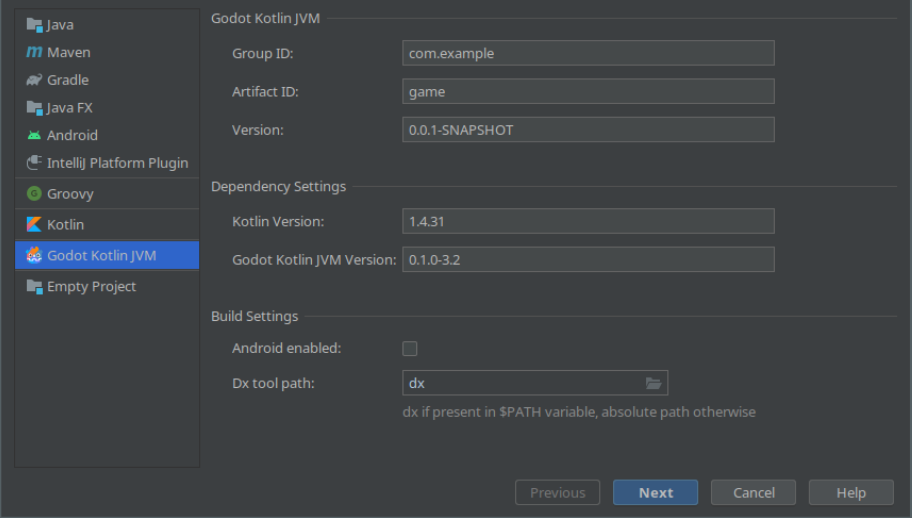
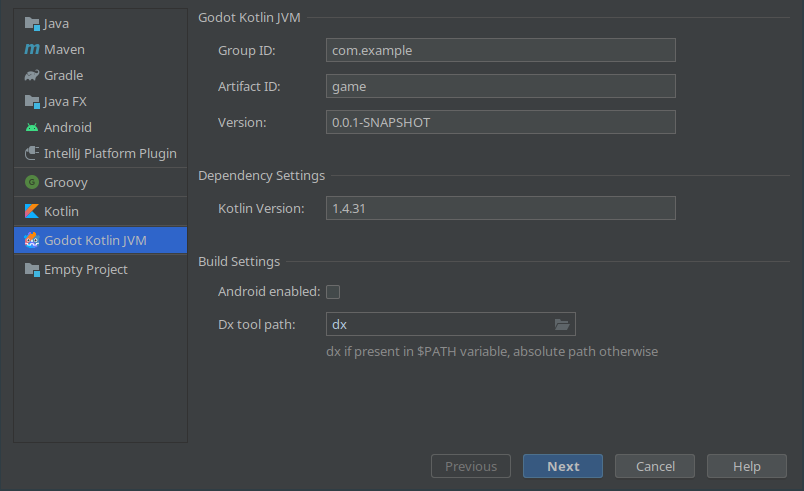
Correct godotKotlinJvm version and remove option to set it in wizard

diff --git a/kt/plugins/godot-intellij-plugin/src/main/kotlin/godot/intellij/plugin/module/GodotModuleBuilder.kt b/kt/plugins/godot-intellij-plugin/src/main/kotlin/godot/intellij/plugin/module/GodotModuleBuilder.kt
@@ -15,6 +15,7 @@ import com.intellij.ui.layout.GrowPolicy
 import com.intellij.ui.layout.panel
 import com.intellij.ui.layout.selected
 import godot.intellij.plugin.GodotPluginBundle
+import godot.utils.GodotBuildProperties
 import java.io.File
 import javax.swing.JCheckBox
 import javax.swing.JComponent
@@ -25,7 +26,6 @@ class GodotModuleBuilder : ModuleBuilder(), ModuleBuilderListener {
     private val artifactIdKey = Key<String>("ARTIFACT_ID")
     private val versionKey = Key<String>("VERSION")
     private val kotlinVersionKey = Key<String>("KOTLIN_VERSION")
-    private val godotKotlinJvmVersionKey = Key<String>("GODOT_KOTLIN_JVM_VERSION")
     private val androidEnabledKey = Key<Boolean>("ANDROID_ENABLED")
     private val dxToolPathKey = Key<String>("DX_TOOL_PATH")
 
@@ -57,7 +57,6 @@ class GodotModuleBuilder : ModuleBuilder(), ModuleBuilderListener {
             val artifactIdTextField = JTextField("game")
             val versionTextField = JTextField("0.0.1-SNAPSHOT")
             val kotlinVersionTextField = JTextField("1.4.31")
-            val godotKotlinJvmVersionTextField = JTextField("0.1.0-3.2")
             lateinit var androidEnabledCheckBox: JCheckBox
             lateinit var dxToolPathTextField: TextFieldWithBrowseButton
 
@@ -77,9 +76,6 @@ class GodotModuleBuilder : ModuleBuilder(), ModuleBuilderListener {
                     titledRow(GodotPluginBundle.message("wizard.projectSettings.dependencySettings.title")) {
                         row(GodotPluginBundle.message("wizard.projectSettings.dependencySettings.kotlinVersion")) {
                             kotlinVersionTextField().growPolicy(GrowPolicy.MEDIUM_TEXT)
-                        }
-                        row(GodotPluginBundle.message("wizard.projectSettings.dependencySettings.godotKotlinJvmVersion")) {
-                            godotKotlinJvmVersionTextField().growPolicy(GrowPolicy.MEDIUM_TEXT)
                         }
                     }
                     titledRow(GodotPluginBundle.message("wizard.projectSettings.buildSettings.title")) {
@@ -111,7 +107,6 @@ class GodotModuleBuilder : ModuleBuilder(), ModuleBuilderListener {
                 context.putUserData(artifactIdKey, artifactIdTextField.text)
                 context.putUserData(versionKey, versionTextField.text)
                 context.putUserData(kotlinVersionKey, kotlinVersionTextField.text)
-                context.putUserData(godotKotlinJvmVersionKey, godotKotlinJvmVersionTextField.text)
                 context.putUserData(androidEnabledKey, androidEnabledCheckBox.isSelected)
                 context.putUserData(dxToolPathKey, dxToolPathTextField.text)
             }
@@ -137,7 +132,7 @@ class GodotModuleBuilder : ModuleBuilder(), ModuleBuilderListener {
                     .replace("KOTLIN_VERSION", wizardContext.getUserData(kotlinVersionKey) ?: "1.4.31")
                     .replace(
                         "GODOT_KOTLIN_JVM_VERSION",
-                        wizardContext.getUserData(godotKotlinJvmVersionKey) ?: "0.1.0-3.2"
+                        GodotBuildProperties.godotKotlinVersion
                     )
                     .replace("ANDROID_ENABLED", wizardContext.getUserData(androidEnabledKey)?.toString() ?: "false")
                     .replace("DX_TOOL_PATH", wizardContext.getUserData(dxToolPathKey) ?: "dx")

diff --git a/kt/buildSrc/src/main/kotlin/DependenciesVersions.kt b/kt/buildSrc/src/main/kotlin/DependenciesVersions.kt
@@ -1,5 +1,5 @@
 object DependenciesVersions {
-    const val godotVersion: String = "3.2"
+    const val godotVersion: String = "3.2.3"
     const val shadowJarPluginVersion: String = "5.0.0"
     const val mpaptVersion: String = "0.8.5"
 }
